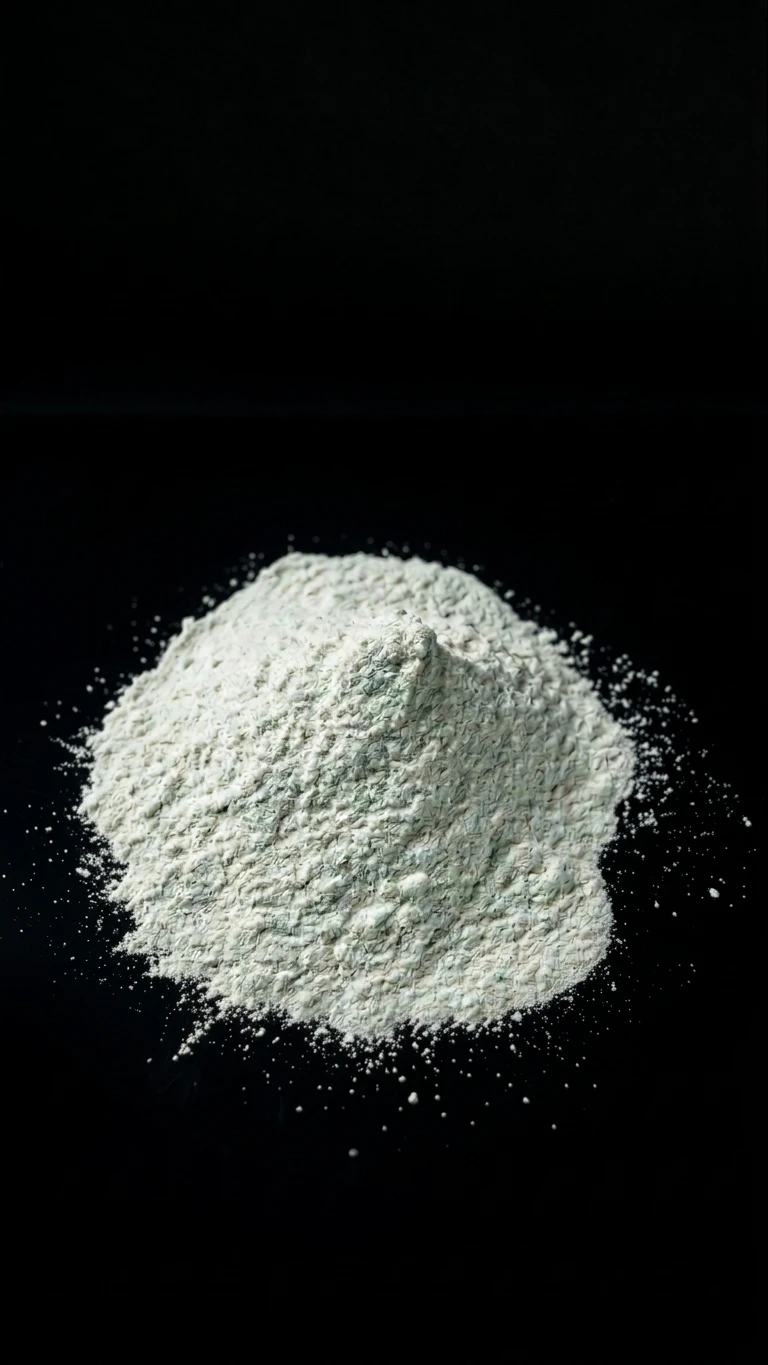
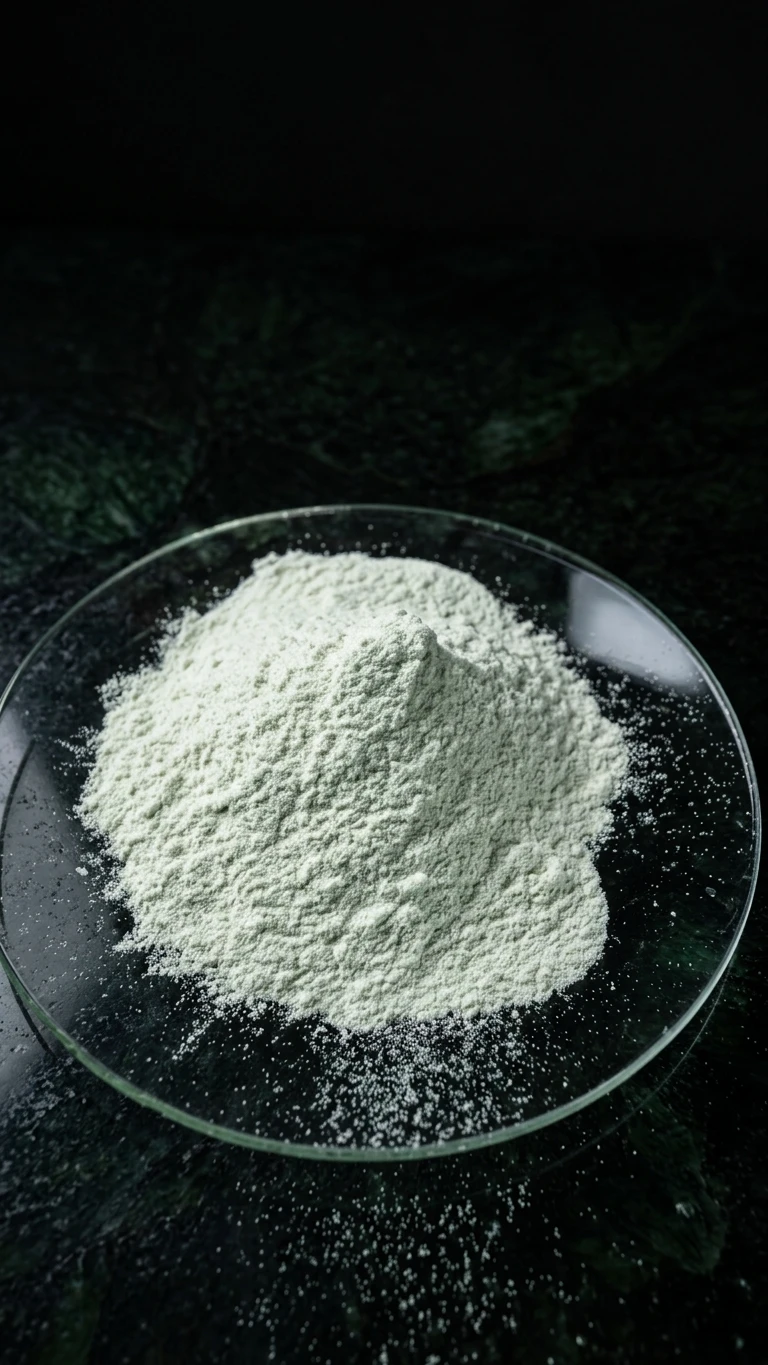
Update lithium, graphite, and black mass photos; remove manganese card
Swap in new photos for lithium, graphite, and black mass, re-tune
lithium's card colour to its actual pale sage tone, and drop the
manganese material from the Recovered Materials carousel along with
its now-unused photo.

diff --git a/src/lib/products.ts b/src/lib/products.ts
@@ -107,24 +107,12 @@ export const RECYCLED_MATERIALS: RecycledMaterial[] = [
     video: "/videos/products/nickel.mp4",
   },
   {
-    id: "manganese",
-    name: "Manganese",
-    tag: "Mn",
-    image: "/images/products/recovered/manganese.webp",
-    color: "linear-gradient(155deg, #e6d2c2, #b6947c)",
-    glow: "#b6947c",
-    textOn: "dark",
-    description: "Manganese recovered through hydrometallurgical refining and crystallised as manganese sulphate.",
-    story: "Protecting what we build.",
-    video: "/videos/products/manganese.mp4",
-  },
-  {
     id: "lithium",
     name: "Lithium",
     tag: "Li",
     image: "/images/products/recovered/lithium.webp",
-    color: "linear-gradient(155deg, #ffffff, #d8dad9)",
-    glow: "#b9bcc0",
+    color: "linear-gradient(155deg, #eef2ea, #c7d1c2)",
+    glow: "#a9b8a3",
     textOn: "dark",
     description:
       "Lithium carbonate and other lithium compounds recovered through hydrometallurgical refining.",
